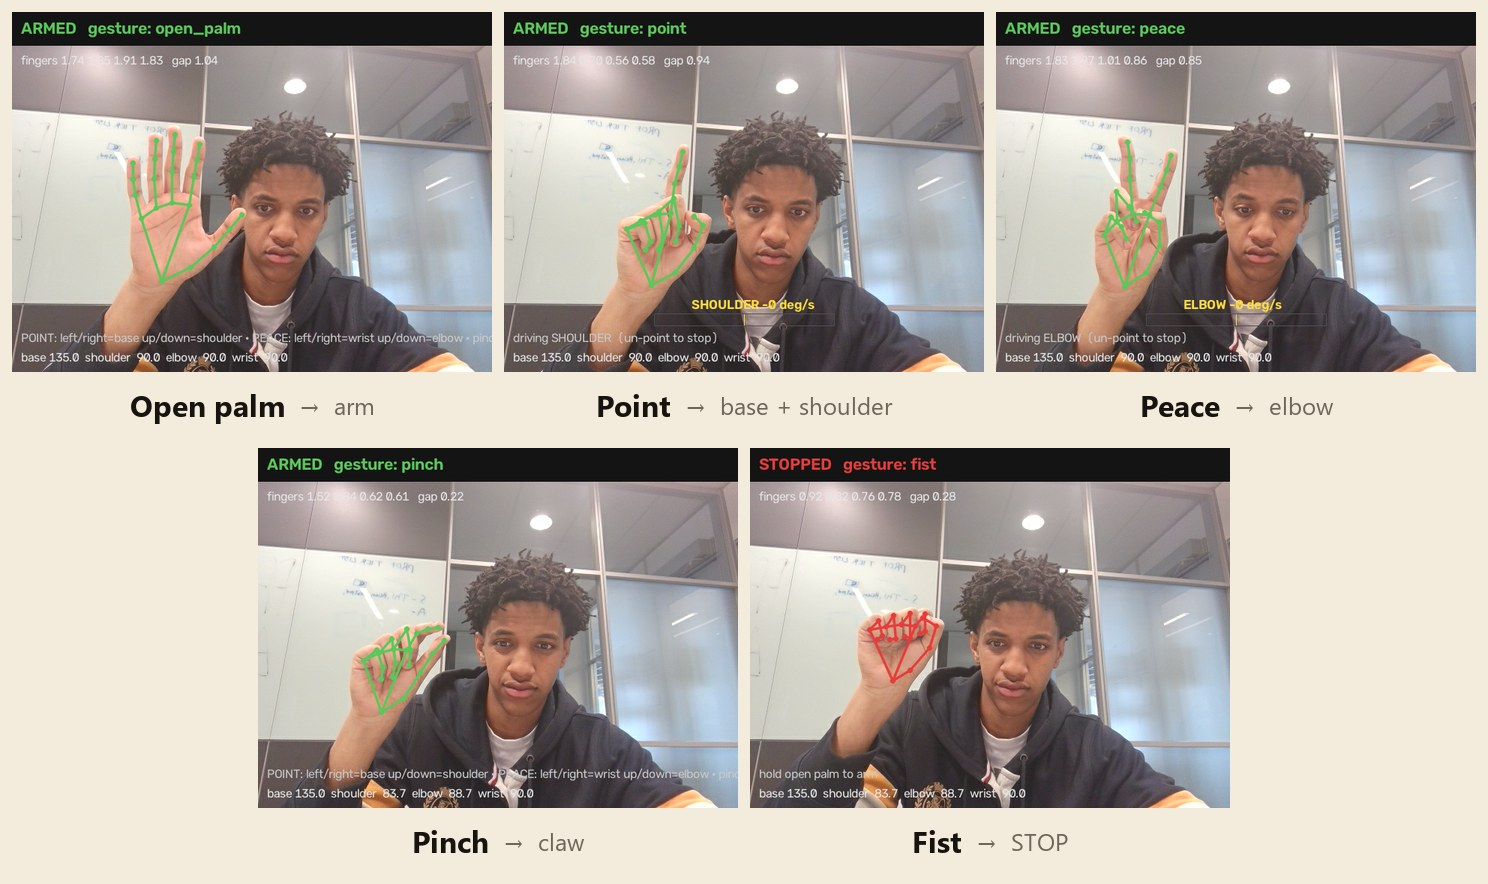
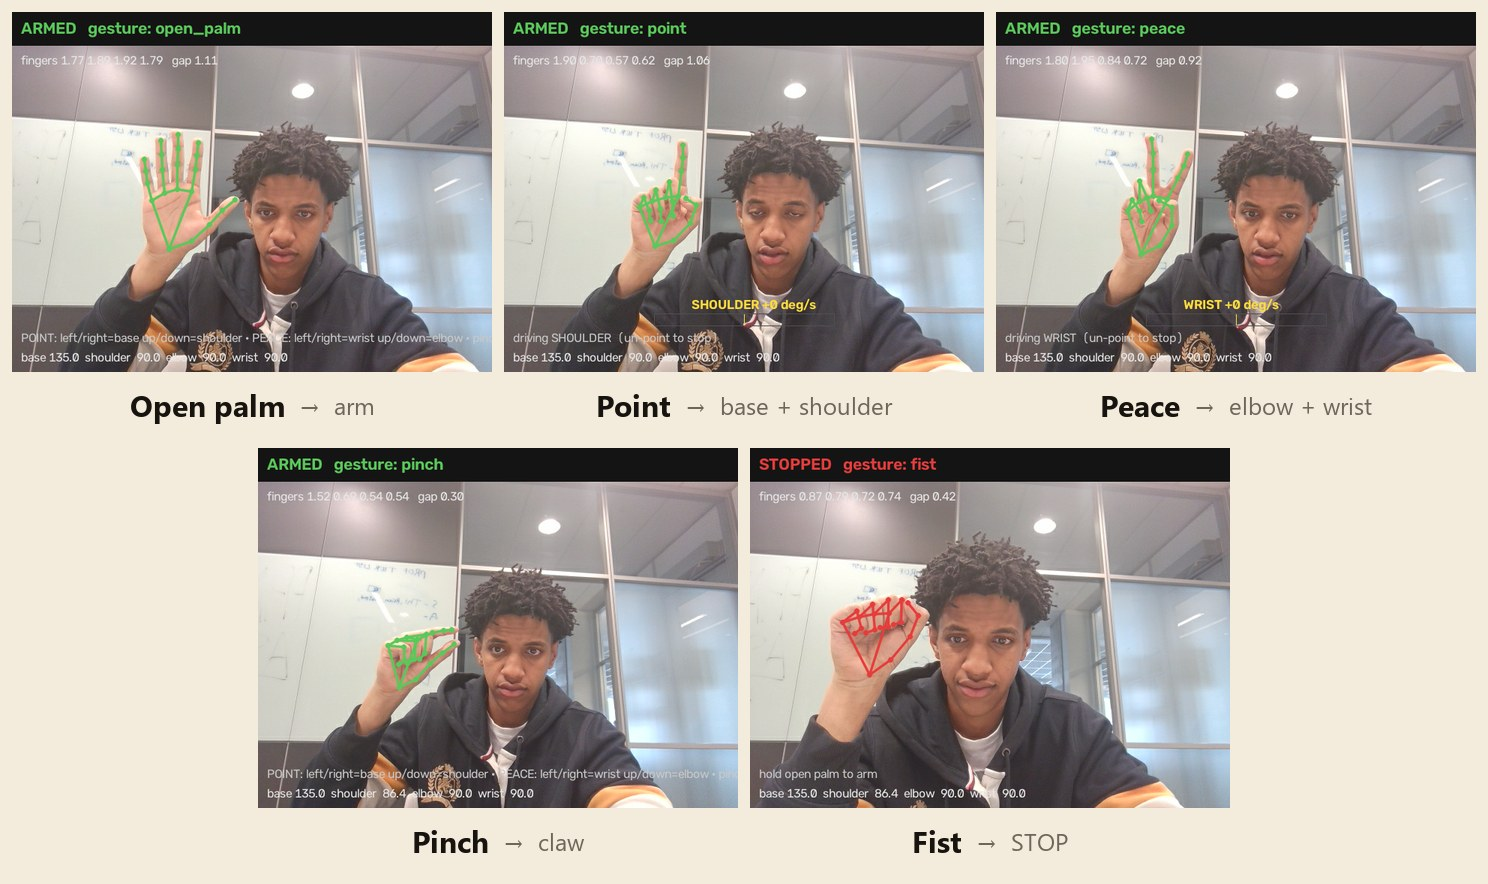
README: retaken webcam screenshots; peace also turns the wrist

diff --git a/README.md b/README.md
@@ -60,7 +60,7 @@ Two windows open: your webcam, with the hand skeleton and the recognised gesture
 <p align="center"><img src="media/camera-gestures.jpg" alt="The demo's camera window recognising each of the five gestures on a real hand" width="100%"></p>
 <p align="center"><sub>The camera window on a real webcam, one screenshot per gesture (press <code>p</code> in the demo to save one).
 The header shows the arm's state and the recognised gesture; the top line shows the four finger ratios the
-classifier reads; the yellow bar is the joystick speed.</sub></p>
+classifier reads; the yellow bar is the joystick speed. Peace drives the elbow up/down and the wrist left/right.</sub></p>
 
 <p align="center"><img src="media/atlas-gestures.gif" alt="Gestures driving the arm: the real gesture reader and arm controller, fed synthetic hands" width="100%"></p>
 <p align="center"><sub>What step 2 looks like, rendered from the real <code>GestureReader</code> and <code>ArmController</code>. Every number and serial line shown is what the code produced.</sub></p>
@@ -181,7 +181,7 @@ within 2 s, shows **VOICE DOWN** and reopens the mic.
 |:--|:--|
 | ✋ **Open palm**, held 1 s | Arms. It is also the "hold still" pose |
 | ☝ **Point** and move | Left/right turns the **base**, up/down lifts the **shoulder** |
-| ✌ **Peace sign** and move | Up/down bends the **elbow** |
+| ✌ **Peace sign** and move | Up/down bends the **elbow**, left/right turns the **wrist** |
 | 🤏 **Pinch** / release | The **claw** closes / opens |
 | ✊ **Fist** | **STOP**: everything freezes and disarms |
 | 🗣 "**james** home / raise / grab / left shoulder / stop" | Voice presets and commands |
